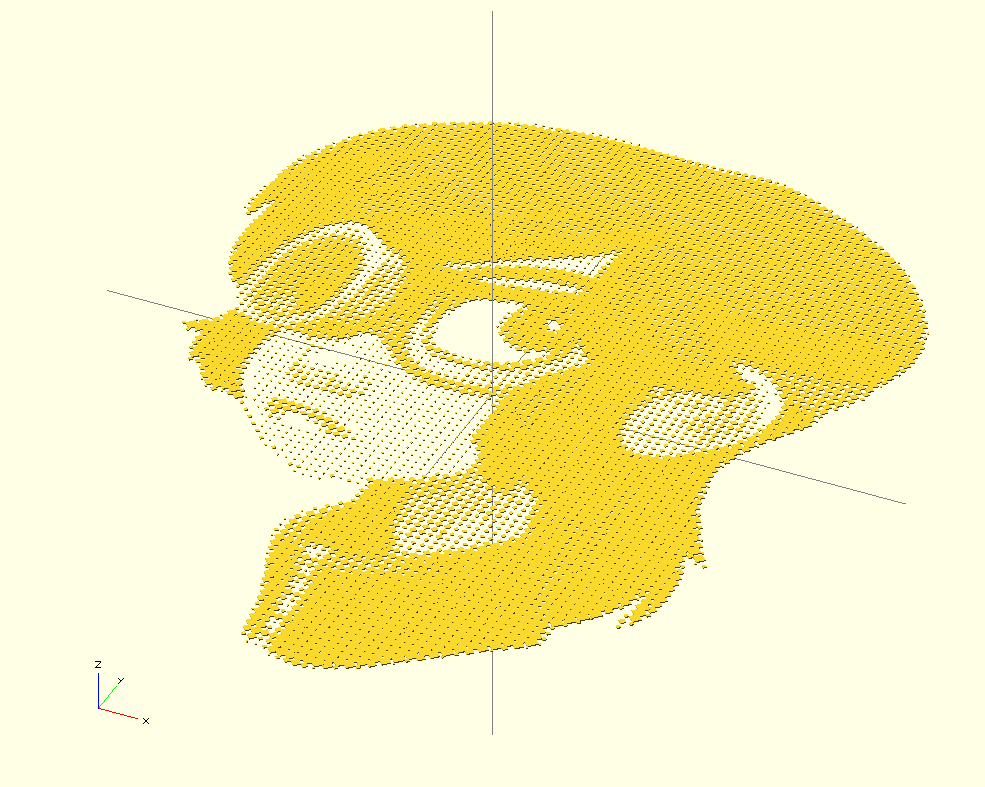
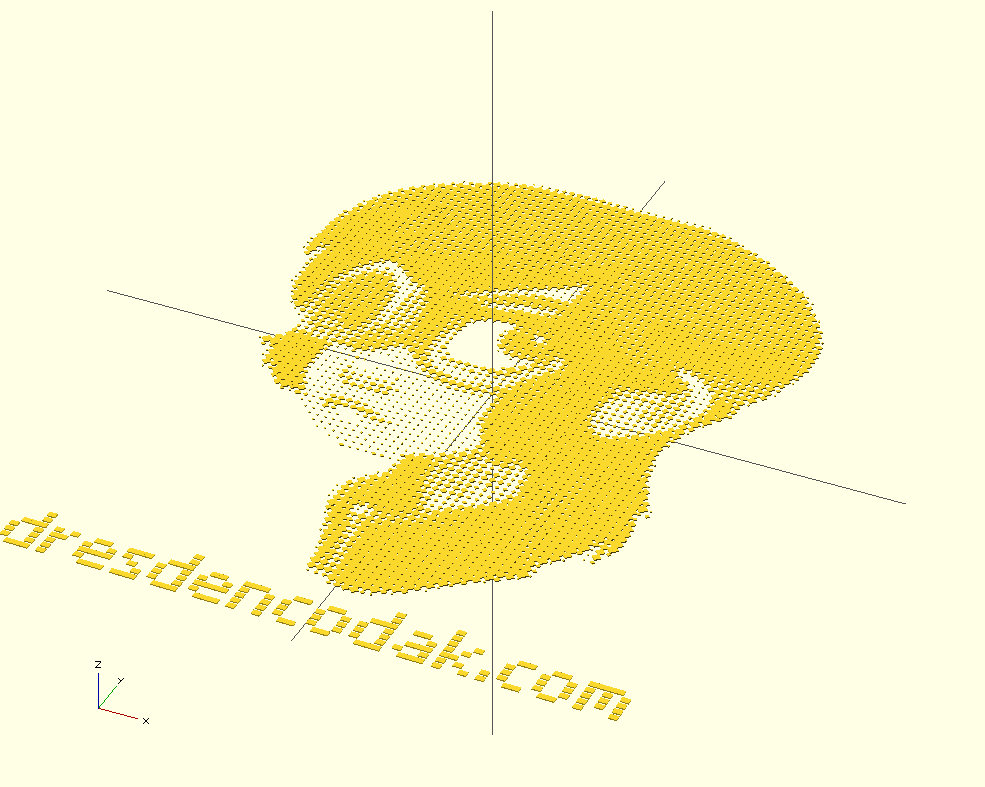
update readme, signifier example

Changed region(s): [[0.0, 0.1525, 0.9442, 0.9149]]

diff --git a/README.md b/README.md
@@ -39,6 +39,16 @@ write("Hello World",default_font);
 ```
 ![](examples/general.png)
 
+####Write with child objects####
+```
+use <../writer.scad>;
+include <../fonts/default_font.scad>;
+
+write("Some Text",default_font,center=true)
+	cylinder(r=6,h=2);
+```
+![](examples/use-child.png)
+
 ####Sizing####
 ```
 use <../writer.scad>;
@@ -51,16 +61,6 @@ translate([0,-40,0])
 		cube([6,2,1]);
 ```
 ![](examples/sizing.png)
-
-####Write with child objects####
-```
-use <../writer.scad>;
-include <../fonts/default_font.scad>;
-
-write("Some Text",default_font,center=true)
-	cylinder(r=6,h=2);
-```
-![](examples/use-child.png)
 
 ####Multibyte Characters####
 ```
@@ -79,13 +79,16 @@ Make a printing plate out of some ASCII-Art.
 ```
 use <../writer.scad>;
 include <../fonts/kim.scad>;
+include <../fonts/default_font.scad>;
 
 
 for( pix=[[".",1],["-",2],["+",3],["=",4],["E",5],["#",6]] )
 	write("?",kim,center=true,size=[7,7,1],pixel_signifier=pix[0])
 		cylinder(r=pix[1],h=1,$fn=4);
 
-// visit http://dresdencodak.com/
+translate([0,-310,0])
+	write("dresdencodak.com",default_font,size=[7,7,1],center=true)
+		cube([7,5,1]);
 ```
 ![](examples/pixel-signifier.png)
 
